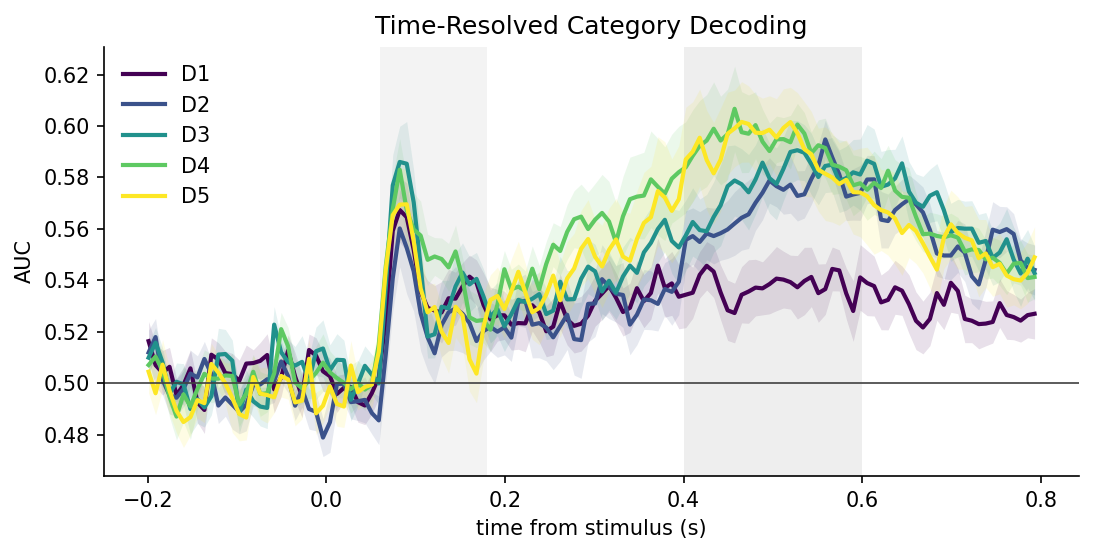
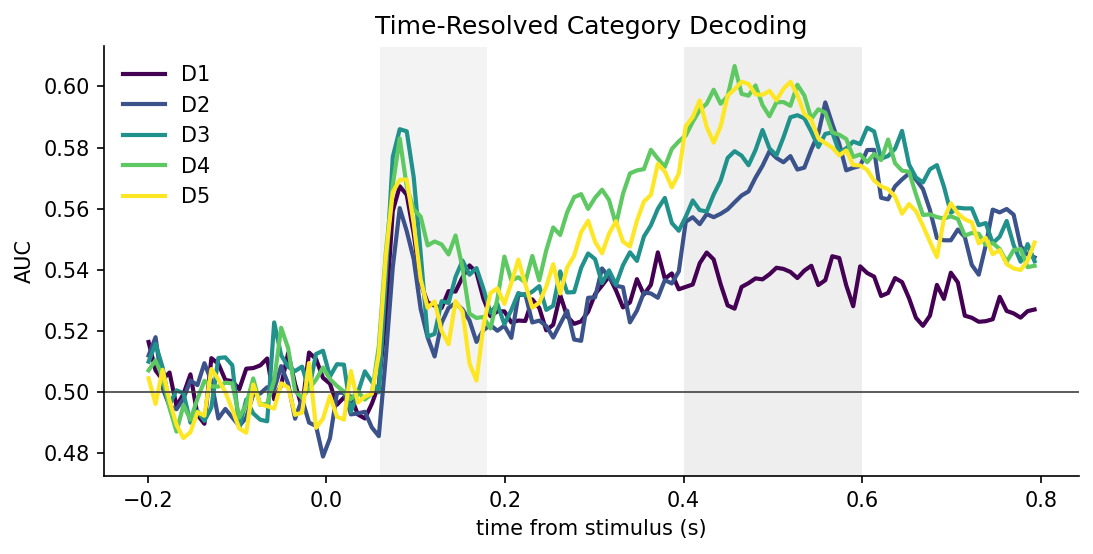
.

diff --git a/code/presentation_figure.py b/code/presentation_figure.py
@@ -1003,10 +1003,7 @@ def plot_presentation_mvpa_auc(output_dir, figures_dir):
             raise ValueError(f"Missing MVPA AUC rows for day={day}")
         x = g["time_sec"].to_numpy(float)
         y = g["auc_mean"].to_numpy(float)
-        sem_vals = g["auc_sem"].to_numpy(float)
         ax.plot(x, y, color=DAY_COLORS[day], linewidth=2.0, label=f"D{day}")
-        ax.fill_between(x, y - sem_vals, y + sem_vals, color=DAY_COLORS[day],
-                        alpha=0.12, linewidth=0)
     ax.axhline(0.5, color="0.25", linewidth=0.8)
     ax.axvspan(0.06, 0.18, color="0.75", alpha=0.18, linewidth=0)
     ax.axvspan(0.40, 0.60, color="0.55", alpha=0.14, linewidth=0)
